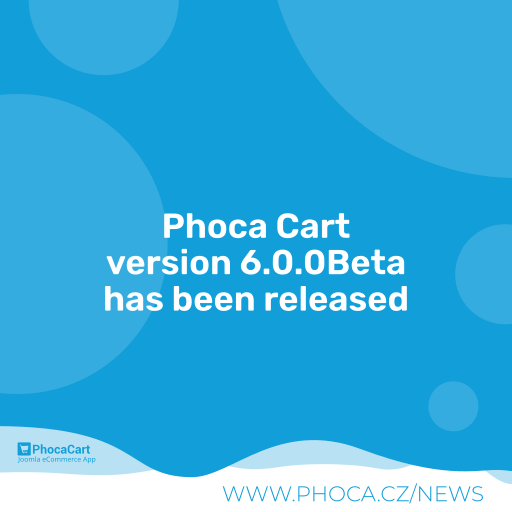
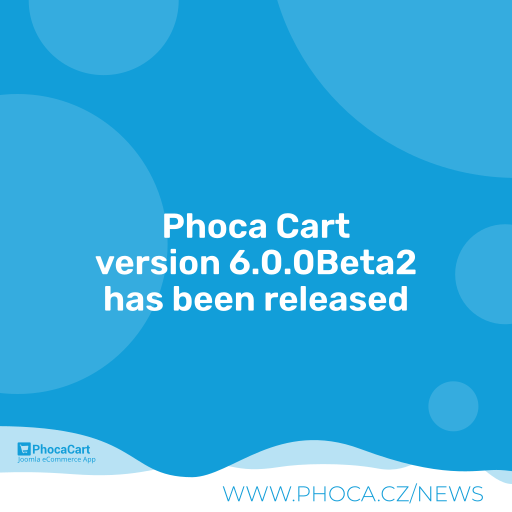
6.0.0Beta2

Changed region(s): [[0.1875, 0.4688, 0.8125, 0.5625]]

diff --git a/media/css/main.css b/media/css/main.css
@@ -32,6 +32,12 @@
     --ph-icon-new: #337ab7;
 }
 
+[data-bs-theme="dark"] {
+        --ph-grey-bg: #3e3e3e;
+        --ph-white-bg: #3e3e3e;
+        --ph-grey-border: #9e9e9e;
+}
+
 .ph-top {
     margin-bottom: 1em;
 }

diff --git a/admin/views/phocacarteditproductpointgroup/tmpl/default.php b/admin/views/phocacarteditproductpointgroup/tmpl/default.php
@@ -15,7 +15,7 @@ use Joomla\CMS\Language\Text;
 HTMLHelper::_('bootstrap.tooltip');
 HTMLHelper::_('behavior.multiselect');
 HTMLHelper::_('dropdown.init');
-HTMLHelper::_('formbehavior.chosen', 'select');
+//HTMLHelper::_('formbehavior.chosen', 'select');
 
 
 $link		= Route::_( 'index.php?option='.$this->t['o'].'&view=phocacarteditproductpointgroup&tmpl=component&id='.(int)$this->id);

diff --git a/admin/views/phocacarteditproductpricehistory/tmpl/default.php b/admin/views/phocacarteditproductpricehistory/tmpl/default.php
@@ -15,7 +15,7 @@ use Joomla\CMS\Factory;
 HTMLHelper::_('bootstrap.tooltip');
 HTMLHelper::_('behavior.multiselect');
 HTMLHelper::_('dropdown.init');
-HTMLHelper::_('formbehavior.chosen', 'select');
+//HTMLHelper::_('formbehavior.chosen', 'select');
 
 
 //- $link		= Route::_( 'index.php?option='.$this->t['o'].'&view=phocacarteditproductpricehistory&tmpl=component&id='.(int)$this->id);

diff --git a/admin/views/phocacarteditproductpricegroup/tmpl/default.php b/admin/views/phocacarteditproductpricegroup/tmpl/default.php
@@ -16,7 +16,7 @@ use Joomla\CMS\Factory;
 HTMLHelper::_('bootstrap.tooltip');
 HTMLHelper::_('behavior.multiselect');
 HTMLHelper::_('dropdown.init');
-HTMLHelper::_('formbehavior.chosen', 'select');
+//HTMLHelper::_('formbehavior.chosen', 'select');
 
 
 $link		= Route::_( 'index.php?option='.$this->t['o'].'&view=phocacarteditproductpricegroup&tmpl=component&id='.(int)$this->id);

diff --git a/admin/views/phocacarteditbulkprice/tmpl/default.php b/admin/views/phocacarteditbulkprice/tmpl/default.php
@@ -16,7 +16,7 @@ use Joomla\CMS\Session\Session;
 HTMLHelper::_('bootstrap.tooltip');
 HTMLHelper::_('behavior.multiselect');
 HTMLHelper::_('dropdown.init');
-HTMLHelper::_('formbehavior.chosen', 'select');
+//HTMLHelper::_('formbehavior.chosen', 'select');
 jimport( 'joomla.filesystem.folder' );
 jimport( 'joomla.filesystem.file' );
 

diff --git a/admin/views/phocacartedittax/tmpl/default.php b/admin/views/phocacartedittax/tmpl/default.php
@@ -15,7 +15,7 @@ use Joomla\CMS\Language\Text;
 HTMLHelper::_('bootstrap.tooltip');
 HTMLHelper::_('behavior.multiselect');
 HTMLHelper::_('dropdown.init');
-HTMLHelper::_('formbehavior.chosen', 'select');
+//HTMLHelper::_('formbehavior.chosen', 'select');
 jimport( 'joomla.filesystem.folder' );
 jimport( 'joomla.filesystem.file' );
 
